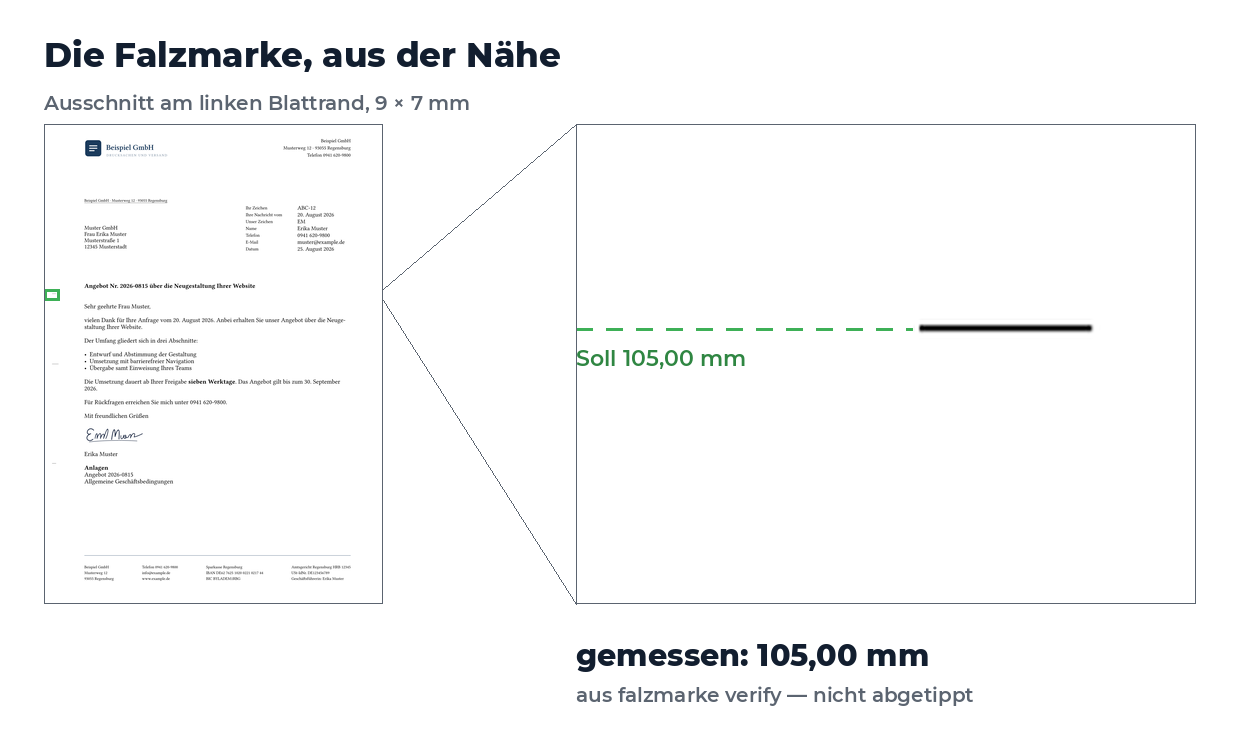
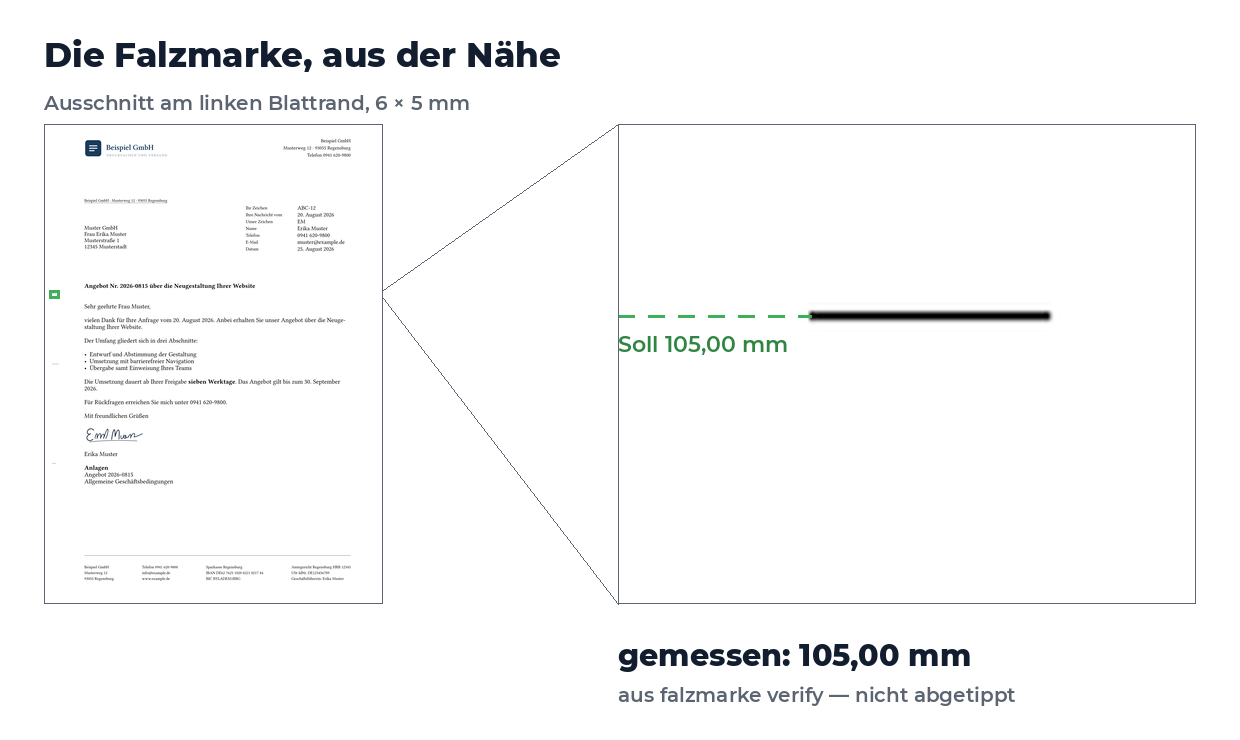
wip(#75): Ausschnitt enger, Sollinie schliesst an, GIF statt Bildpaar
Zwischenstand — die Sichtpruefung steht noch aus, das GIF ist noch nicht
angesehen.

- FENSTER_MM von 9x7 auf 6x5 mm: Die Marke liegt am Render bei 4,99 bis
  7,49 mm und fuellt damit 42 % der Fensterbreite statt 28 %.
- Die Sollinie endet nicht mehr acht Pixel vor der Marke, sondern schliesst
  an sie an.
- `_mass()` statt `:.0f` im Untertitel: Nach der ersten Aenderung behauptete
  das Bild "6 x 5 mm", waehrend das Fenster 5,5 mm breit war. Genau der
  Fehlertyp, den #75 unter Punkt 3 anprangert.
- `zeichne_wechsel()` erzeugt zwei Frames, `main()` schreibt sie als GIF
  (Pillow, keine neue Abhaengigkeit). Der richtige Zustand steht zuerst.

Offen: ansehen und nachbessern, README-Alt-Texte, tests/test_detailbild.py.

diff --git a/scripts/detailbild.py b/scripts/detailbild.py
@@ -59,14 +59,20 @@ PPI = 600
 # Ausschnittfenster in Millimetern (x-links, y-oben, Breite, Hoehe). Beide
 # Bilder benutzen dasselbe — was hier zu sehen ist, soll dort dasselbe bedeuten.
 #
-# Die Breite von 9 mm ist der Kern der Sache: Die Marke ist 0,088 mm stark
+# Die Fensterbreite ist der Kern der Sache: Die Marke ist 0,088 mm stark
 # (0,25 pt), also zeigt jedes Bild sie so dick, wie das Fenster schmal ist. Auf
-# 9 mm Fensterbreite wird daraus in der README-Darstellung gut ein halbes
-# Dutzend Pixel; auf den 210 mm des ganzen Blattes bleibt weniger als eines
-# uebrig — genau der Grund, aus dem sie auf den Vorschaubildern verschwand.
-# Die Hoehe von 7 mm ist die Untergrenze, bei der die verschobene Marke der
-# Gegenprobe noch im Bild liegt.
-FENSTER_MM = (0.0, 102.0, 9.0, 7.0)
+# den 210 mm des ganzen Blattes bleibt weniger als ein Pixel uebrig — genau der
+# Grund, aus dem sie auf den Vorschaubildern verschwand.
+#
+# Bis zum 27.08.2026 stand hier 9 x 7 mm. Der Ausschnitt war damit zu ueber
+# 80 % leere Flaeche, und das genannte Mass war im Bild nicht wiederzuerkennen
+# (Issue #75). Gemessen am Render liegt die Marke bei 4,99 bis 7,49 mm; bei
+# 6 mm Fensterbreite ab 3,0 mm fuellt sie 42 % davon und traegt das Bild.
+#
+# Die Hoehe von 5 mm ist die Untergrenze, bei der die um 2 mm verschobene Marke
+# der Gegenprobe noch mit Rand im Bild liegt: 103,0 bis 108,0 mm fasst 105 und
+# 107.
+FENSTER_MM = (3.0, 103.0, 6.0, 5.0)
 
 # Verschiebung fuer die Gegenprobe, in Millimetern.
 # tests/test_gegenbeweis.py verschiebt die Marke auf 112 mm — dort ist der
@@ -76,6 +82,11 @@ FENSTER_MM = (0.0, 102.0, 9.0, 7.0)
 # damit sicher ein Fehler — und zugleich so wenig, dass die Frage „faellt das
 # ueberhaupt auf?" ihre Berechtigung behaelt.
 SABOTAGE_MM = 107.0
+
+# Wie lange jedes der beiden Bilder im GIF steht. Lang genug, um die Marke zu
+# finden, kurz genug, dass der Sprung als Bewegung ankommt und nicht als zwei
+# Bilder. Der Wert ist am fertigen GIF nachgestellt worden, nicht gerechnet.
+BILDDAUER_MS = 1100
 
 # docs/marke/erscheinungsbild.md — vier Farben, kein zweiter Akzent. Die
 # Abweichung wird deshalb durch Zahl und Zeichen markiert, nicht durch Rot.
@@ -169,6 +180,17 @@ def _bild(pfad: Path):
     return Image.open(pfad).convert("RGB")
 
 
+def _mass(mm: float) -> str:
+    """Millimeterzahl fuer die Bildbeschriftung — ohne zu runden.
+
+    Ein `:.0f` machte aus 5,5 mm eine "6" und behauptete damit ein Mass, das im
+    Bild nicht zu finden war (Issue #75). Halbe Millimeter kommen mit Komma,
+    ganze ohne Nachkomma.
+    """
+    text = f"{mm:.1f}".rstrip("0").rstrip(".")
+    return text.replace(".", ",")
+
+
 def _schrift(groesse: int, fett: bool = False):
     from PIL import ImageFont
     datei = SCHRIFT_FETT if fett else SCHRIFT
@@ -215,7 +237,7 @@ def _sollinie(zeichner, y: float, breite: int, ausschnitt_mm, beschriftung, schr
     Strich auf dem Brief haelt.
     """
     x_links, _, fenster_breite, _ = ausschnitt_mm
-    bis = round((MARKE_X_MM[0] - x_links) / fenster_breite * breite) - 8
+    bis = round((MARKE_X_MM[0] - x_links) / fenster_breite * breite)
     x = 0
     while x < bis:
         zeichner.line([(x, y), (min(x + 16, bis), y)], fill=GRUEN, width=3)
@@ -288,7 +310,7 @@ def zeichne_detail(seite, mess: dict):
                   font=_schrift(34, fett=True), fill=TINTE)
     zeichner.text(
         (RAND, 90),
-        f"Ausschnitt am linken Blattrand, {FENSTER_MM[2]:.0f} × {FENSTER_MM[3]:.0f} mm",
+        f"Ausschnitt am linken Blattrand, {_mass(FENSTER_MM[2])} × {_mass(FENSTER_MM[3])} mm",
         font=_schrift(20), fill=GRAU,
     )
 
@@ -342,6 +364,58 @@ def zeichne_gegenprobe(seite, seite_sabotiert, mess: dict):
     return tafel
 
 
+def zeichne_wechsel(seite, seite_sabotiert, mess: dict) -> list:
+    """Zwei Einzelbilder derselben Stelle: richtig und um 2 mm verschoben.
+
+    Sie werden als GIF ausgegeben und wechseln sich ab. Das ist der Unterschied
+    zum bisherigen Bildpaar (Issue #75): Nebeneinander muss der Betrachter die
+    2 mm selbst herstellen — wer nicht schon weiss, worauf er achten soll, sieht
+    zweimal dasselbe. Im Wechsel springt die Marke, und das Springen ist die
+    Aussage.
+
+    Beide Einzelbilder sind bis auf die Marke gleich aufgebaut: gleicher
+    Ausschnitt, gleiche Sollinie an gleicher Stelle, gleiche Schriftzuege an
+    gleicher Position. Was sich bewegt, ist nur das, worum es geht.
+    """
+    from PIL import Image, ImageDraw
+
+    hoehe_bild = 420
+    breite_bild = round(hoehe_bild / FENSTER_MM[3] * FENSTER_MM[2])
+    oben = 128
+    y_soll = _y_im_ausschnitt(mess["soll"], FENSTER_MM, hoehe_bild)
+    versatz = SABOTAGE_MM - mess["soll"]
+
+    faelle = (
+        (seite, f"{mess['ist']:.2f} mm".replace(".", ","), "so wird ausgeliefert", GRUEN_TEXT),
+        (seite_sabotiert, f"{SABOTAGE_MM:.2f} mm".replace(".", ","),
+         f"{versatz:.0f} mm zu tief — verify schlägt an", TINTE),
+    )
+    frames = []
+    for quelle, kopf, fuss, farbe in faelle:
+        tafel = Image.new("RGB", (breite_bild + 2 * RAND, oben + hoehe_bild + 142), PAPIER)
+        zeichner = ImageDraw.Draw(tafel)
+        zeichner.text((RAND, 34), "Fällt ein Fehler von 2 mm auf?",
+                      font=_schrift(34, fett=True), fill=TINTE)
+        zeichner.text((RAND, 90),
+                      f"Derselbe Ausschnitt, {_mass(FENSTER_MM[2])} × "
+                      f"{_mass(FENSTER_MM[3])} mm — im Wechsel.",
+                      font=_schrift(20), fill=GRAU)
+
+        ausschnitt, _ = _ausschnitt(quelle, FENSTER_MM, hoehe_bild)
+        _sollinie(ImageDraw.Draw(ausschnitt), y_soll, ausschnitt.width, FENSTER_MM,
+                  f"Soll {mess['soll']:.2f} mm".replace(".", ","), _schrift(22))
+        tafel.paste(ausschnitt, (RAND, oben))
+        zeichner.rectangle(
+            [(RAND, oben), (RAND + ausschnitt.width - 1, oben + ausschnitt.height - 1)],
+            outline=GRAU, width=1,
+        )
+        zeichner.text((RAND, oben + hoehe_bild + 32), kopf,
+                      font=_schrift(30, fett=True), fill=farbe)
+        zeichner.text((RAND, oben + hoehe_bild + 78), fuss, font=_schrift(20), fill=GRAU)
+        frames.append(tafel)
+    return frames
+
+
 # ── Ablauf ──────────────────────────────────────────────────────────────────
 
 def baue() -> dict:
@@ -382,7 +456,7 @@ def baue() -> dict:
         return {
             "mess": mess,
             "detail": zeichne_detail(seite, mess),
-            "gegenprobe": zeichne_gegenprobe(seite, seite_falsch, mess),
+            "wechsel": zeichne_wechsel(seite, seite_falsch, mess),
             "ausschnitt_richtig": _ausschnitt(seite, FENSTER_MM, hoehe)[0],
             "ausschnitt_falsch": _ausschnitt(seite_falsch, FENSTER_MM, hoehe)[0],
             "seiten": (seite, seite_falsch),
@@ -428,12 +502,25 @@ def main() -> int:
         return 0
 
     ZIEL_DIR.mkdir(parents=True, exist_ok=True)
-    for schluessel, name in (("detail", "falzmarke-detail.png"),
-                             ("gegenprobe", "falzmarke-gegenprobe.png")):
-        bild = gebaut[schluessel]
-        pfad = ZIEL_DIR / name
-        bild.save(pfad, optimize=True)
-        print(f"  {pfad.relative_to(REPO)}  {bild.width}x{bild.height}")
+    detail = gebaut["detail"]
+    pfad = ZIEL_DIR / "falzmarke-detail.png"
+    detail.save(pfad, optimize=True)
+    print(f"  {pfad.relative_to(REPO)}  {detail.width}x{detail.height}")
+
+    # Der Wechsel als GIF. Pillow schreibt es selbst — VHS ist ein
+    # Terminal-Recorder und fuer Bildanimation der falsche Weg; die beiden
+    # Wege bleiben getrennt (Issue #75).
+    #
+    # Der richtige Zustand steht zuerst: Wer das GIF nur als Standbild sieht —
+    # etwa wenn eine Oberflaeche die Animation nicht abspielt —, sieht dann die
+    # Marke auf der Linie und nicht den Fehlerfall.
+    frames = gebaut["wechsel"]
+    gif = ZIEL_DIR / "falzmarke-gegenprobe.gif"
+    frames[0].save(gif, save_all=True, append_images=frames[1:],
+                   duration=BILDDAUER_MS, loop=0, optimize=True)
+    print(f"  {gif.relative_to(REPO)}  {frames[0].width}x{frames[0].height}, "
+          f"{len(frames)} Bilder à {BILDDAUER_MS} ms  "
+          f"{gif.stat().st_size / 1024:.0f} KB")
     BELEG.write_text(neu, encoding="utf-8")
     print(f"  {BELEG.relative_to(REPO)}  {PRUEFUNG}: {mess['ist']:.2f} mm")
     return 0
